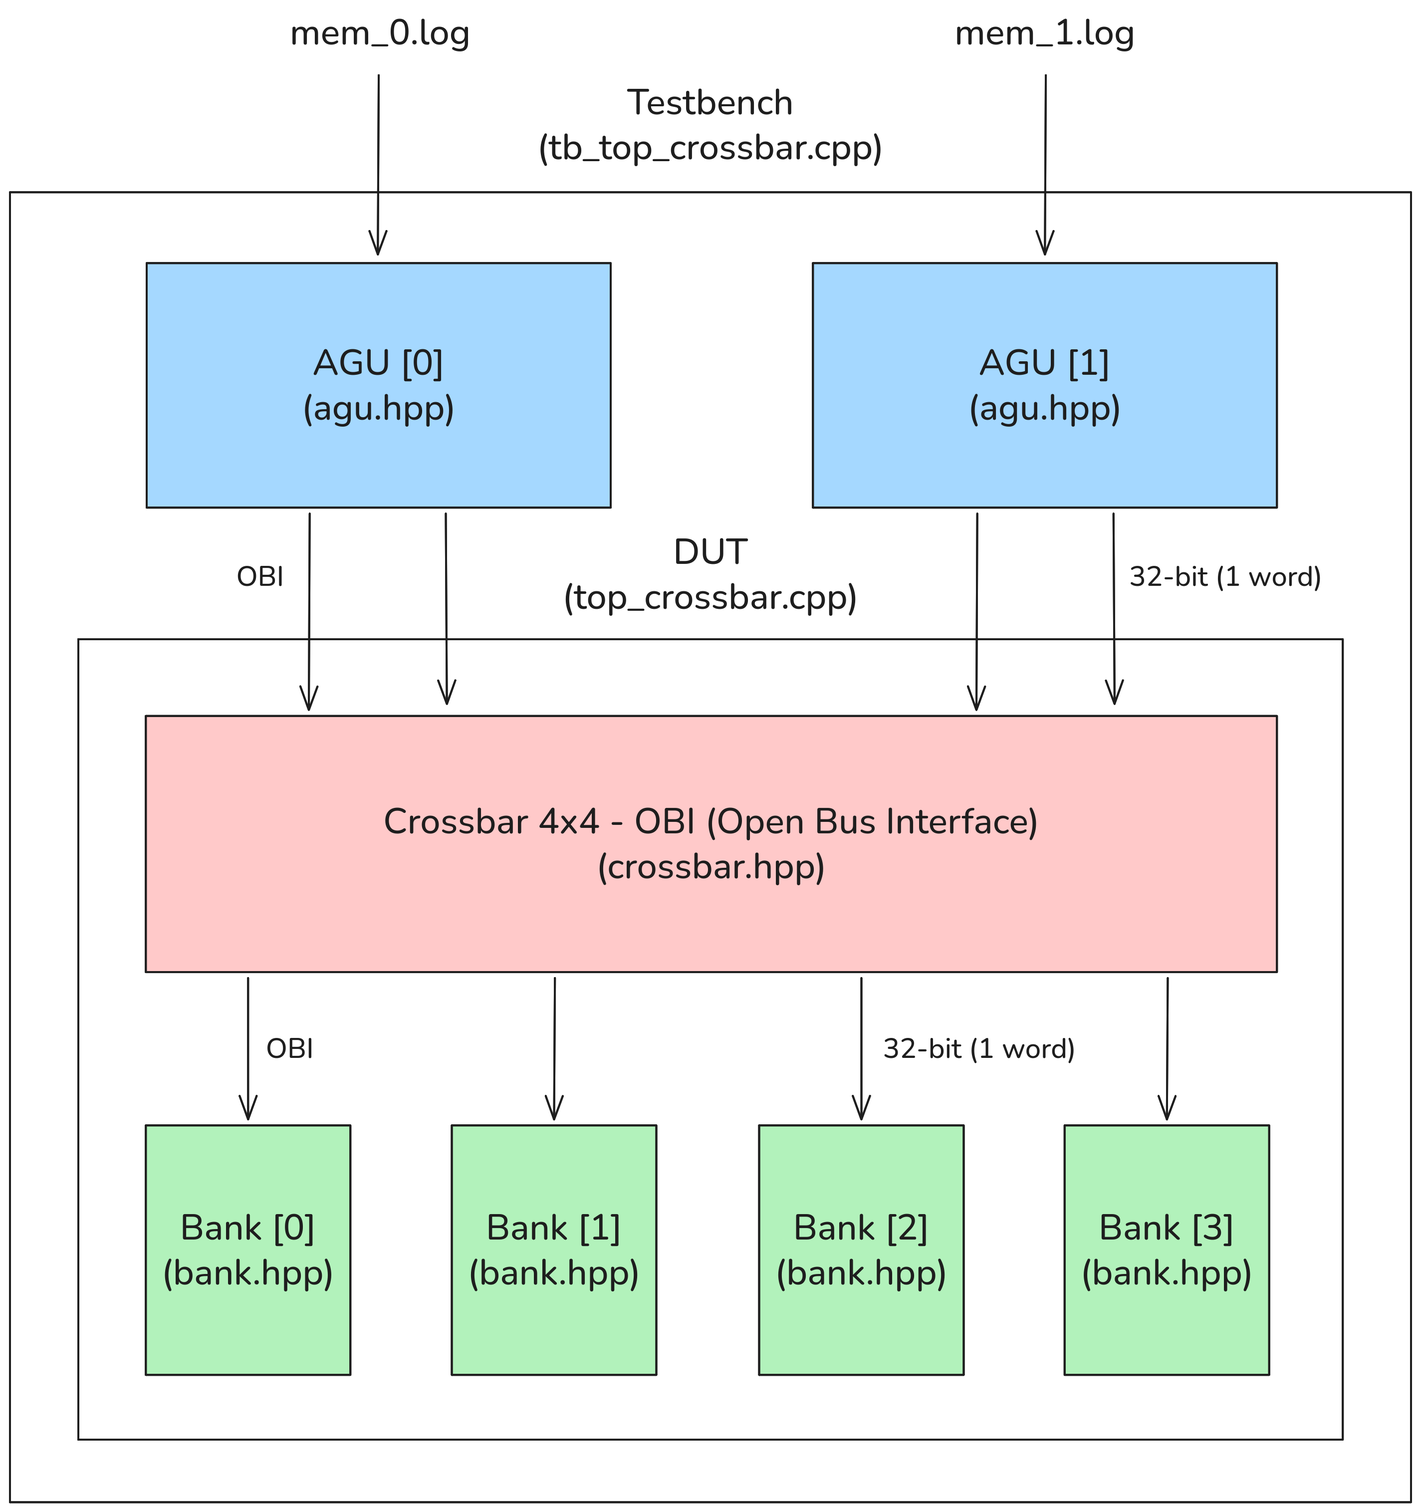
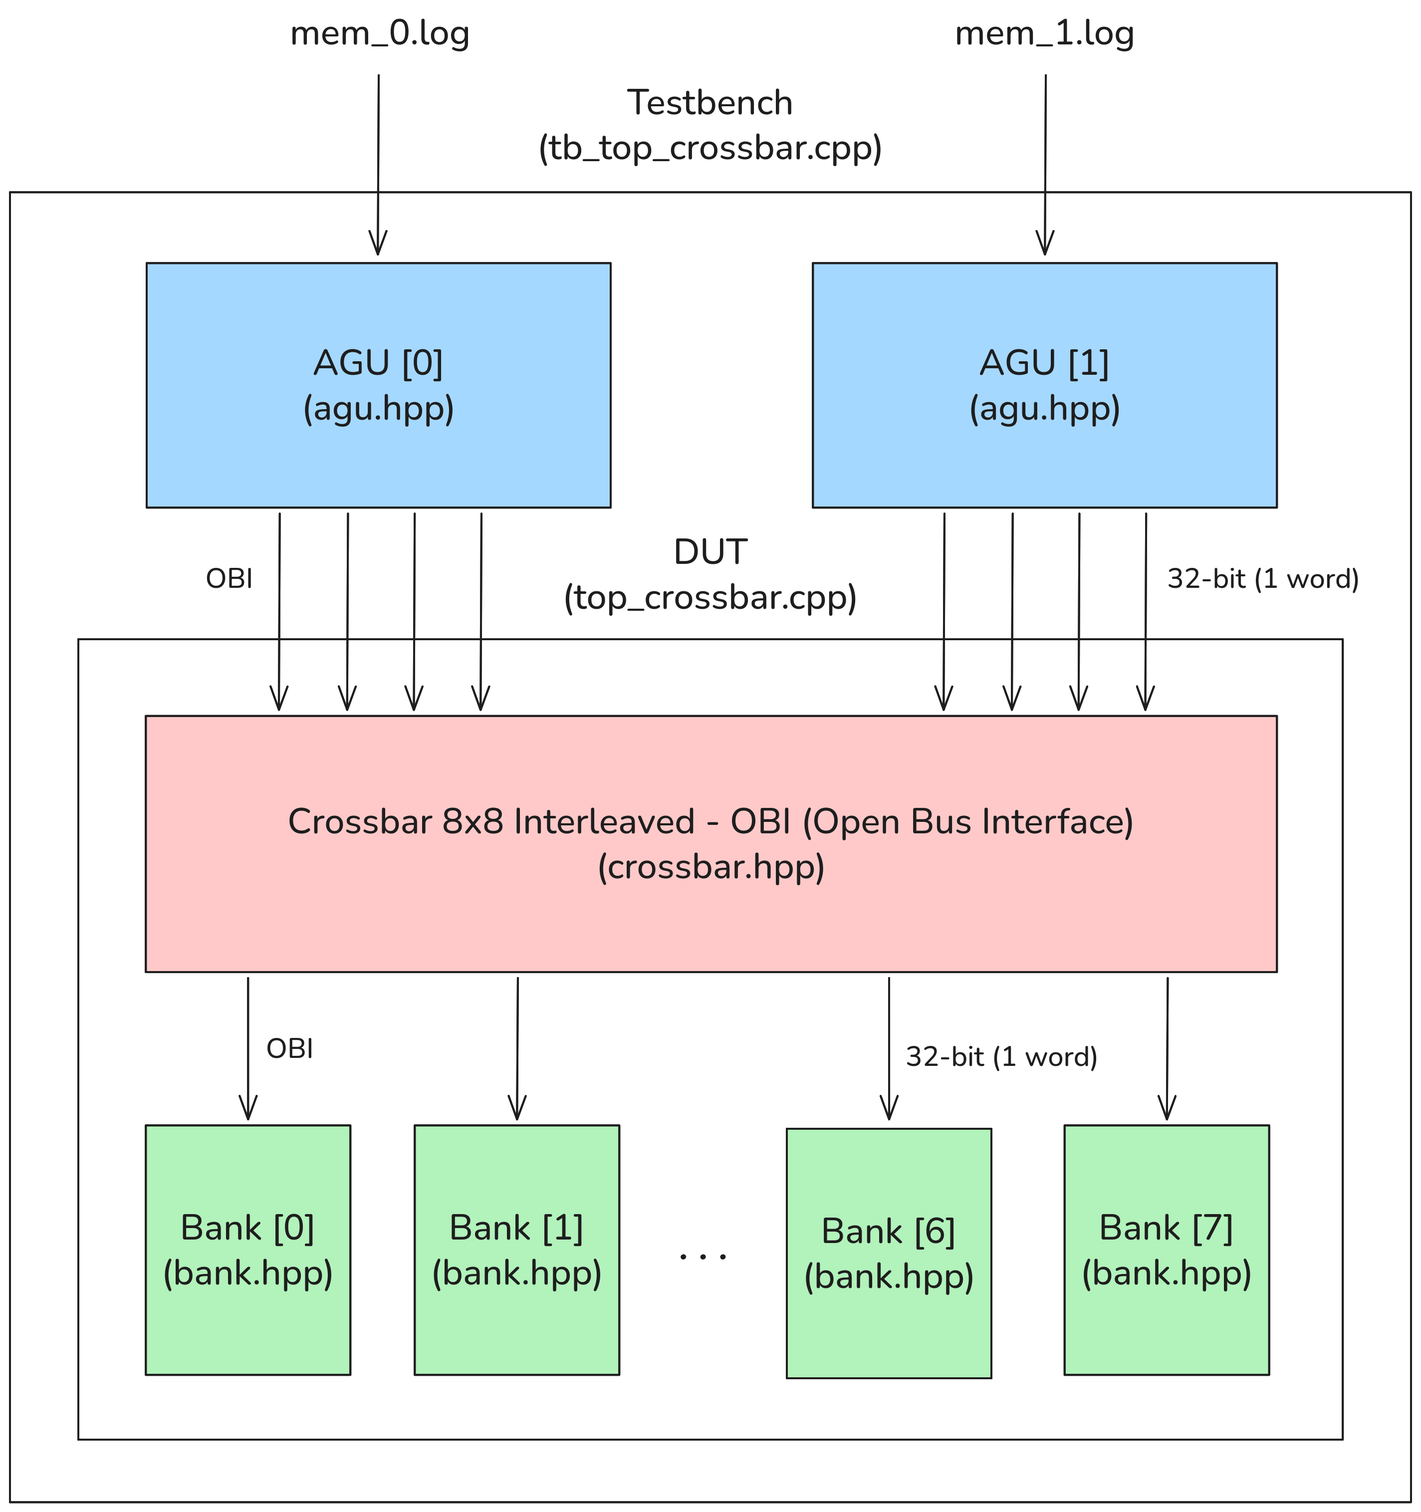
Created folder specs.

diff --git a/projects/tdm/doc/specs/tdm.md b/projects/tdm/doc/specs/tdm.md
@@ -1,0 +1,82 @@
+# TDM architecture
+
+Reference diagram: [tdm.png](../diagrams/tdm.png)
+
+Time-Division-Multiplexed interconnect: instead of a full [crossbar](crossbar.md), requests are **buffered, serialized by a round-robin arbiter, mapped to (bank, row), and conflict-checked** before reaching the banks. The goal is to reach the same four banks with far less interconnect hardware, trading spatial parallelism for time multiplexing.
+
+**What the comparison measures:** for each architecture, the **percentage delay penalty caused by bank conflicts** relative to an ideal conflict-free execution of the same trace (extra cycles spent resolving conflicts vs. a run where every access completes in one cycle). See [crossbar.md](crossbar.md) for the baseline.
+
+> **Note on the flow.** All modules are SystemC (`.hpp`/`.cpp`, `sc_main` testbench), so this design targets the `make sim-sc` flow. Design modules would live under `rtl/systemc/`, the harness under `tb/systemc/`.
+
+## Hierarchy
+
+```
+Testbench  (tb_top_tdm.cpp)
+├── mem_0.log ──▶ AGU[0] (agu.hpp)
+├── mem_1.log ──▶ AGU[1] (agu.hpp)
+└── DUT  (top_tdm.cpp)
+    ├── Buffer[0] (buf.hpp)      ◀── AGU[0]   (2 words)
+    ├── Buffer[1] (buf.hpp)      ◀── AGU[1]   (2 words)
+    ├── Mux (mux.hpp)            ◀── Buffer[0]/Buffer[1] (4 words each)   [OBI request mux]
+    ├── Arbiter – Round Robin (arbiter.hpp)   ── drives the OBI mux/demux + config mux
+    ├── Mux (mux.hpp)            ◀── AGU[0]/AGU[1]                        [TDM-config mux]
+    ├── TDM Mapping Function (tdm.hpp)         ── emits Mapping Vector (8 elements)
+    ├── Conflicts Checker (conf_check.hpp)
+    ├── Demux (demux.hpp)        ──▶ AGU[0]/AGU[1]
+    └── Bank[0..3] (bank.hpp)
+```
+
+## Modules
+
+| Block                 | File             | Role                                                                                                                                                                                                                                                                                                                                                                                                                                                                                      |
+| --------------------- | ---------------- | ----------------------------------------------------------------------------------------------------------------------------------------------------------------------------------------------------------------------------------------------------------------------------------------------------------------------------------------------------------------------------------------------------------------------------------------------------------------------------------------- |
+| Testbench             | `tb_top_tdm.cpp` | Top-level harness. Reads `mem_0.log` / `mem_1.log` and drives the two AGUs; instantiates the DUT.                                                                                                                                                                                                                                                                                                                                                                                         |
+| AGU[0], AGU[1]        | `agu.hpp`        | Address Generation Units. Each reads **2 consecutive addresses** (rows) per cycle from its trace. Because the two words are consecutive by design, in the TDM path they are issued as a **single request** (one base address) rather than two separate ports.                                                                                                                                                                                                                             |
+| DUT                   | `top_tdm.cpp`    | Device under test: the full TDM datapath plus the four banks.                                                                                                                                                                                                                                                                                                                                                                                                                             |
+| Buffer[0], Buffer[1]  | `buf.hpp`        | One **4-deep** buffer per AGU. On the AGU's slot it **prefetches 4 consecutive words** (one base address) — enough for two cycles of consumption — so that during the next cycle (when the slot belongs to the *other* AGU) this AGU does not stall. Tracks which words remain outstanding after a conflict and **re-requests them in the AGU's next slot**.                                                                                                                              |
+| Mux (OBI request)     | `mux.hpp`        | The **OBI mux** half of an OBI mux/demux pair (the Demux is its response-side half). Selects the active buffer's 4-word OBI request (single base address); controlled by the arbiter. Output: **4 words** over OBI to the mapping function.                                                                                                                                                                                                                                               |
+| Arbiter – Round Robin | `arbiter.hpp`    | Grants a **time slot to one AGU per cycle**, alternating round-robin between the two AGUs (so each AGU is served every 2 cycles). Drives the OBI mux/demux and the TDM-config mux.                                                                                                                                                                                                                                                                                                        |
+| Mux (TDM config)      | `mux.hpp`        | A **separate** mux (not an OBI path): selects the `AGU[0]`/`AGU[1]` **configuration signals** that parametrize the TDM mapping function; controlled by the arbiter.                                                                                                                                                                                                                                                                                                                       |
+| TDM Mapping Function  | `tdm.hpp`        | Core scheduler. From the single base address of the 4 consecutive words, computes where each word lands and emits the **Mapping Vector (8 elements)**: `{BID0, RID0, BID1, RID1, BID2, RID2, BID3, RID3}` (bank ID + row ID per word). **Internal mapping is treated as a black box for now.**                                                                                                                                                                                            |
+| Conflicts Checker     | `conf_check.hpp` | Reads the 8-element mapping vector and checks for bank conflicts. It issues the **non-conflicting subset** of the 4 words to the banks in the current slot; the words that lost a conflict are **left outstanding** for the buffer to re-request in the AGU's **next round-robin slot** — the source of the 2-cycle TDM penalty. The buffer must learn which words completed: ideally inferred from the **OBI ack/grant** (to be verified) rather than a dedicated checker→buffer signal. |
+| Demux                 | `demux.hpp`      | The **response-side half** of the OBI mux/demux: routes bank read responses back to `AGU[0]` / `AGU[1]`, steered by the arbiter's current selection.                                                                                                                                                                                                                                                                                                                                      |
+| Bank[0..3]            | `bank.hpp`       | Four memory banks, 1 word (32-bit) per access.                                                                                                                                                                                                                                                                                                                                                                                                                                            |
+
+## Interfaces & data flow
+
+- **Protocol:** OBI on the main request/response links; 32-bit (1 word) at the banks.
+- **Word counts on the diagram:** AGU → Buffer = **2 words**; Buffer → request Mux = **4 words**; request Mux → TDM Mapping Function = **4 words**; TDM Mapping Function → Conflicts Checker = **Mapping Vector (8 elements)** = 4 × `{bank ID, row ID}`; Conflicts Checker → Banks = **1 word** each.
+
+End-to-end pipeline (per slot, one AGU served per cycle, alternating):
+
+1. The Arbiter grants this cycle's slot to one AGU.
+2. That AGU's Buffer prefetches 4 consecutive words (one base address) — two cycles' worth, so the AGU survives the cycle it is not granted a slot.
+3. The OBI request Mux forwards the 4-word group and the TDM-config Mux forwards the same AGU's configuration signals to the mapping function.
+4. The TDM Mapping Function (black box) maps the 4 words to `{bank ID, row ID}` each, emitting the 8-element Mapping Vector.
+5. The Conflicts Checker issues the **non-conflicting words this slot**; words that lost a conflict stay outstanding and are re-requested in the AGU's **next slot** (round-robin → 2 cycles later) → **2-cycle penalty** for that group.
+6. The Demux returns each bank response to the originating AGU.
+
+So a conflicting group's fetch is **split across two of its slots**. The accumulated penalty cycles are reported as the **% delay penalty** for this architecture vs. a conflict-free run.
+
+## Addressing, traces & penalty model
+
+- **Traces:** `mem_N.log` is a single column of hexadecimal addresses, one per memory access. Each AGU reads **2 addresses (rows) per cycle**. Read-vs-write for the whole run is chosen in the testbench (uniform across all transactions in a simulation).
+- **Banking:** word-interleaved across the 4 banks (consistent with the [crossbar](crossbar.md) baseline). The 2 words an AGU issues per cycle are consecutive, and the 4 words a buffer prefetches per slot are consecutive — so a group is carried as a single base address.
+- **Conflict source (for now):** **only across the two AGUs** — an AGU's own consecutive, interleaved words never self-collide. Other use-cases (intra-group conflicts via the mapping) will be explored later, so the design should not hard-wire the "no self-conflict" assumption.
+- **Penalty:** **2 cycles per conflict** between two masters (vs. 1 cycle for the crossbar): the non-conflicting words go out in the current slot and the conflicting ones wait for the AGU's next round-robin slot. The penalty **scales with the number of conflicting masters**.
+
+## Resolved
+
+- **Buffer:** depth 4; prefetches 4 consecutive words/slot to cover the AGU's skipped cycle. ✔
+- **Mapping Vector (8 elements):** 4 words × `{bank ID, row ID}`. ✔
+- **Arbiter:** round-robin, one AGU per cycle (each served every 2 cycles). ✔
+- **Conflict penalty:** 2 cycles/conflict (split fetch across two slots), scaling with conflicting masters. ✔
+- **Conflict source:** across the two AGUs for now (extensible later). ✔
+- **Metric:** % delay penalty from conflicts vs. ideal conflict-free execution. ✔
+- **Traces / addressing:** single-column hex; 2 rows/cycle/AGU; word-interleaved; R/W set per simulation. ✔
+- **Muxes:** two distinct `mux.hpp` modules — an **OBI mux** (paired with `demux.hpp` for responses) and a separate **TDM-config mux** for the AGU configuration signals. ✔
+
+## Open / to investigate
+
+1. **TDM Mapping Function (`tdm.hpp`) internals** — the exact word→`{bank, row}` mapping is **deliberately a black box for now**. To be defined later.
+2. **Conflict feedback to the buffer** — after a partial (conflicted) issue, the buffer must know which words are still outstanding. Check whether the **OBI ack/grant** already conveys this (preferred), so no dedicated checker→buffer signal is needed.

diff --git a/projects/tdm/doc/specs/crossbar.md b/projects/tdm/doc/specs/crossbar.md
@@ -1,0 +1,55 @@
+# Crossbar architecture
+
+Reference diagram: [crossbar.png](../diagrams/crossbar.png)
+
+Baseline interconnect: a full **8×8 crossbar** that connects every request port to every memory bank in parallel (spatial interconnect, single cycle). This is the reference design the [TDM architecture](tdm.md) is compared against.
+
+**What the comparison measures:** for each architecture, the **percentage delay penalty caused by bank conflicts** relative to an ideal conflict-free execution of the same trace (i.e. how many extra cycles conflicts cost vs. a run where every access completes in one cycle). The crossbar and the TDM design resolve conflicts differently, so this number captures the cost of each scheme.
+
+> **Note on the flow.** All modules are SystemC (`.hpp`/`.cpp`, `sc_main` testbench), so this design targets the `make sim-sc` flow. Design modules would live under `rtl/systemc/`, the harness under `tb/systemc/`.
+
+## Hierarchy
+
+```
+Testbench  (tb_top_crossbar.cpp)
+├── mem_0.log ──▶ AGU[0] (agu.hpp)
+├── mem_1.log ──▶ AGU[1] (agu.hpp)
+└── DUT  (top_crossbar.cpp)
+    ├── Crossbar 8x8 – OBI (crossbar.hpp)
+    └── Bank[0..7] (bank.hpp)
+```
+
+## Modules
+
+| Block          | File                  | Role                                                                                                                                                                                                                                                                                                                                                                                                                                                                                                                                                    |
+| -------------- | --------------------- | ------------------------------------------------------------------------------------------------------------------------------------------------------------------------------------------------------------------------------------------------------------------------------------------------------------------------------------------------------------------------------------------------------------------------------------------------------------------------------------------------------------------------------------------------------- |
+| Testbench      | `tb_top_crossbar.cpp` | Top-level harness. Reads the two memory-access traces `mem_0.log` / `mem_1.log` and drives them into the two AGUs; instantiates the DUT.                                                                                                                                                                                                                                                                                                                                                                                                                |
+| AGU[0], AGU[1] | `agu.hpp`             | OBI managers. Each reads **4 addresses (rows) per cycle** from its `mem_N.log` trace and issues them as **4 separate OBI requests** (4 ports into the crossbar). The four words are needed **together** for the same computation, so the AGU runs in **lock-step**: it does not read the next trace lines or issue a new group until **all four** current requests have completed (responses received). The AGU holds **registers** for each request's `addr`, `we`, `be`, `wdata` and the returned `rdata` — the first register stage in the datapath. |
+| DUT            | `top_crossbar.cpp`    | Device under test: wraps the crossbar and the eight banks.                                                                                                                                                                                                                                                                                                                                                                                                                                                                                              |
+| Crossbar 8x8   | `crossbar.hpp`        | 8 request inputs × 8 bank outputs. Routes each request to its target bank by address: it **opens a master↔bank connection and holds it open until the transaction closes** (request through response), then frees it. Arbitrates same-bank collisions.                                                                                                                                                                                                                                                                                                  |
+| Bank[0..7]     | `bank.hpp`            | Eight memory banks (OBI subordinates) holding the **bank registers** — the next register stage after the AGU. Each bank's logic converts the registered OBI request into an access to its internal memory array (a read when `we=0`, a write when `we=1`), returning `rdata`.                                                                                                                                                                                                                                                                           |
+
+## Interfaces & data flow
+
+- **Protocol:** a simplified single-channel OBI on every link — see [obi.md](obi.md) (no outstanding transactions; a connection is held open from grant until the response closes it).
+- **Granularity:** 32-bit (1 word) per bank access.
+- **Traces:** `mem_N.log` is a single column of hexadecimal addresses, one per access. Each AGU reads **4 addresses/cycle**. Read-vs-write for the whole run is chosen in the testbench (uniform across all transactions in a simulation).
+- **AGU output:** each AGU drives **4 words** as **4 request ports** into the crossbar. (Unlike TDM, the four words are *not* grouped; they stay independent ports.)
+- **Crossbar:** 2 AGUs × 4 words = **8 request ports in**, **8 bank ports out** (hence 8×8). Each of the 8 requests is routed to one of the 8 banks in the same cycle.
+- **Banking:** word-interleaved across the 8 banks.
+- **Banks:** 1 word (32-bit) each per access.
+
+## Datapath & registers
+
+The path is registered at **two stages only**; the 8×8 crossbar between them is combinational routing (plus the per-bank round-robin arbiter) and adds no register of its own:
+
+- **AGU registers** — each AGU stores `addr`, `we`, `be`, `wdata` for each request and captures the returned `rdata`. These drive the request into the crossbar.
+- **Bank registers** — the next stage. Each bank registers the incoming OBI request; its logic then converts the request into an access to the bank's internal memory array (a read when `we=0`, a write when `we=1`) and returns `rdata`.
+
+## Conflict handling
+
+When two request ports target the **same bank** in one cycle, the crossbar **arbitrates round-robin**: one request wins and opens its connection; the loser's `gnt` stays low until that connection **closes** and the bank frees. This needs a **round-robin per-bank arbiter** on the crossbar's bank-side outputs.
+
+Because an AGU's four words are needed together, the AGU runs in **lock-step**: it holds all four requests and does not fetch the next trace group until **all four** complete. So a single conflicted port delays that whole AGU's progress by **1 cycle** — it simply waits a cycle to issue the next group while the stalled request is served.
+
+With word-interleaving, an AGU's own four consecutive addresses always hit different banks, so a single AGU never self-conflicts — **for now, conflicts arise only across the two AGUs** (other use-cases come later). Each conflict between two masters costs **1 cycle** (vs. 2 for the [TDM](tdm.md) design) and **scales with the number of conflicting masters**. The accumulated stall cycles are the **delay penalty** the experiment reports, relative to an ideal run where the ports never collide.

diff --git a/projects/tdm/doc/specs/obi.md b/projects/tdm/doc/specs/obi.md
@@ -1,6 +1,6 @@
 # Simplified OBI link
 
-A reduced **single-channel** subset of the Open Bus Interface (OBI) v1.6.0 — see [OBI-v1.6.0.pdf](OBI-v1.6.0.pdf) — shared by all designs in this project (the [crossbar](../diagrams/crossbar.md) and the [TDM](../diagrams/tdm.md) interconnects).
+A reduced **single-channel** subset of the Open Bus Interface (OBI) v1.6.0 — see [OBI-v1.6.0.pdf](../protocols/OBI-v1.6.0.pdf) — shared by all designs in this project (the [crossbar](crossbar.md) and the [TDM](tdm.md) interconnects).
 
 OBI is a point-to-point, request/grant **manager↔subordinate** protocol. We collapse it to a **single channel** carrying both request and response, using only these signals (plus the global `clk` / `reset_n`):
 
